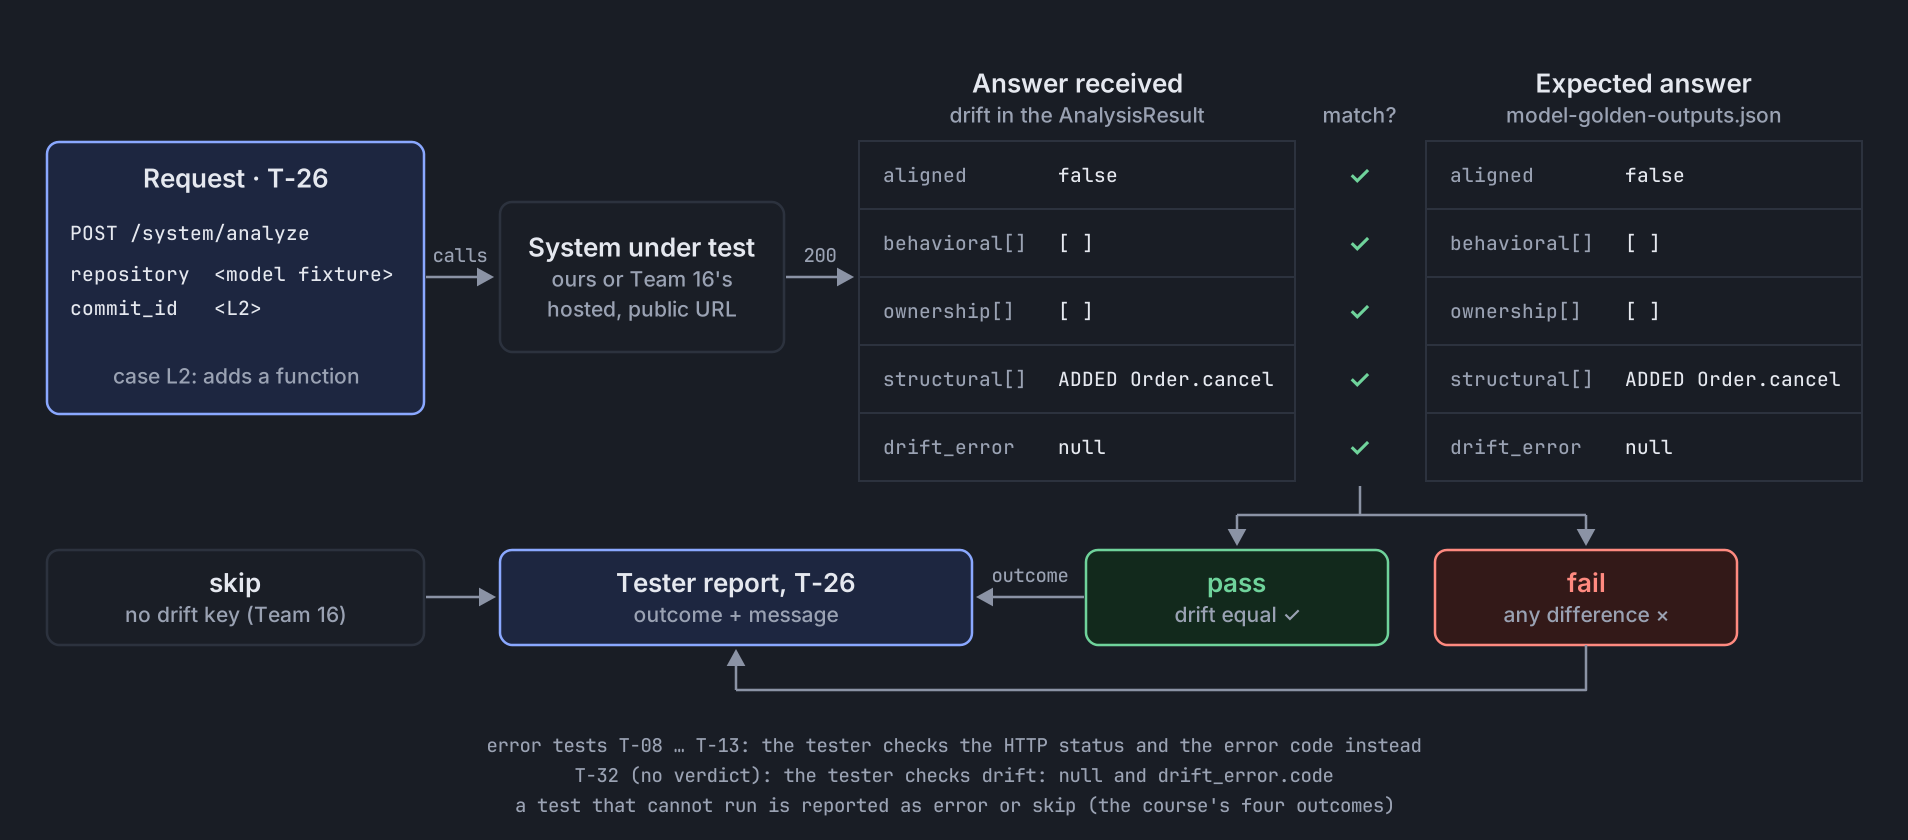
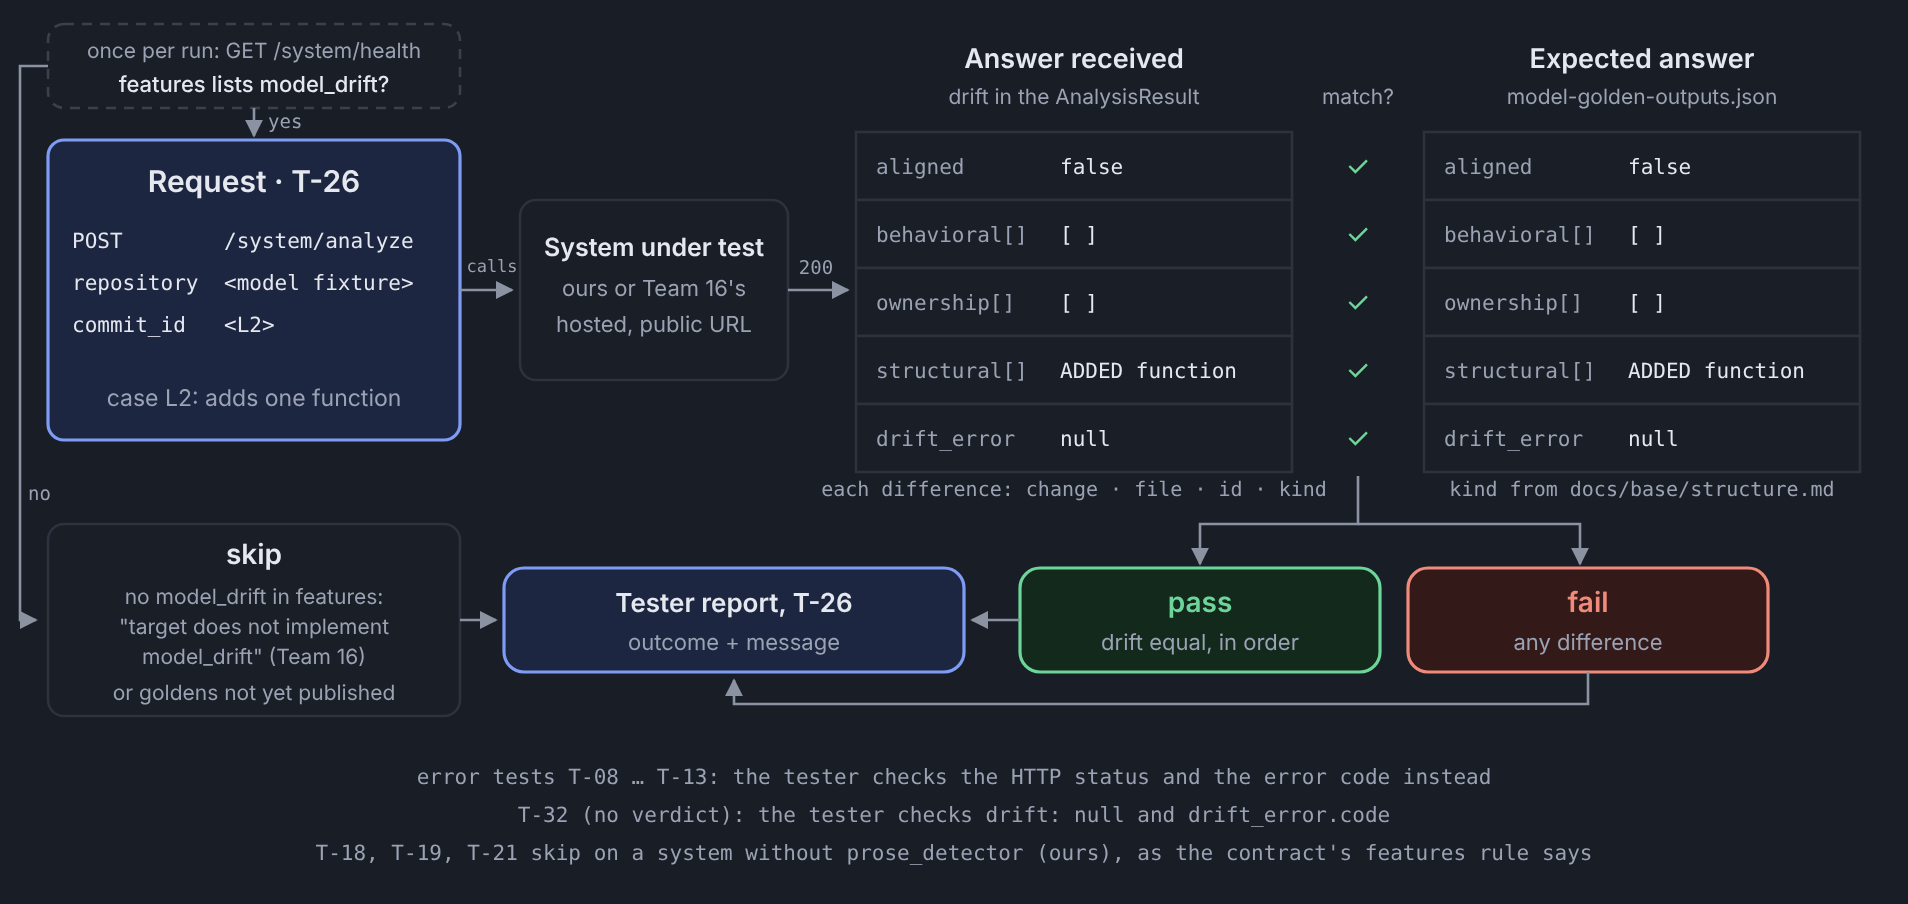
Redraw three diagrams for contract 2.4.0 and structure.md
four-field-answer and cross-team-test show the tester reading /health
once and skipping a test whose feature the target lacks; models-folder
shows the structural format from structure.md. The docs map drops its
out-of-date notes for them.

diff --git a/docs/README.md b/docs/README.md
@@ -33,10 +33,10 @@ Diagrams of the planned system, exported from the Phase 4 overview page.
 - `models/who-talks-to-what.png` — the developer, GitHub and a tester reach one drifter core through the CLI, the GitHub Action (Phase 5) and the hosted service, which serves the pod contract's routes and adds change detection and a result store; the repository is only read. Read it first to understand the system.
 - `models/behavioral-model.png` — lifecycle of a repository under the tool: init proposes the models, a person commits them, and each push ends Aligned, Drifted or Failed. The Mermaid source in spec §3.2 is the text version. Only structural and behavioral are regenerated; ownership is checked against its rules (spec §3.2).
 - `models/one-check.png` — one check step by step, from request to four-field answer, with the HTTP error or no-verdict code each step can return, and what the hosted service adds. Read it when working on the orchestrator or errors.
-- `models/models-folder.png` — the four files in `/models` and what each holds. Element kinds and ids shown are illustrative and predate `base/structure.md`, which wins for structural (edge kinds are `imports`, `inherits`, `calls`).
+- `models/models-folder.png` — the four files in `/models` and what each holds. Structural follows `base/structure.md`; behavioral names are illustrative until its format is settled.
 - `models/comparison.png` — how differences are decided: set difference by id for structural and behavioral (ADDED, REMOVED, MODIFIED), a rule check per commit for ownership (VIOLATION).
-- `models/four-field-answer.png` — test T-26: the four-field answer as the `drift` key of `POST /system/analyze`, how a tester compares it with `contract/model-golden-outputs.json`, and when the test passes, fails or is skipped. Out of date since contract 2.4.0: a test is skipped when the target's `/health` does not list `model_drift`, not when the answer has no `drift` key.
-- `models/cross-team-test.png` — one cross-team test session as `contract/pod-contract.md` defines it: tester and system routes, the T-01 to T-33 loop over both fixtures, and the report. Out of date since contract 2.4.0: the tester first reads `/health` and skips each test whose feature the target does not list; the "no drift key" note is replaced by that rule.
+- `models/four-field-answer.png` — test T-26: the four-field answer as the `drift` key of `POST /system/analyze`, how a tester compares it with `contract/model-golden-outputs.json`, and when the test passes, fails or is skipped. A test is skipped when the target's `/health` does not list `model_drift`.
+- `models/cross-team-test.png` — one cross-team test session as `contract/pod-contract.md` defines it: tester and system routes, the T-01 to T-33 loop over both fixtures, and the report. The tester reads `/health` once first and skips each test whose feature the target does not list.
 - `models/research-evidence.png` — Team 15's tool research: what runs at runtime, what only serves tests, what is rejected. Team 15's choices, not the pod contract.
 
 ## history/
